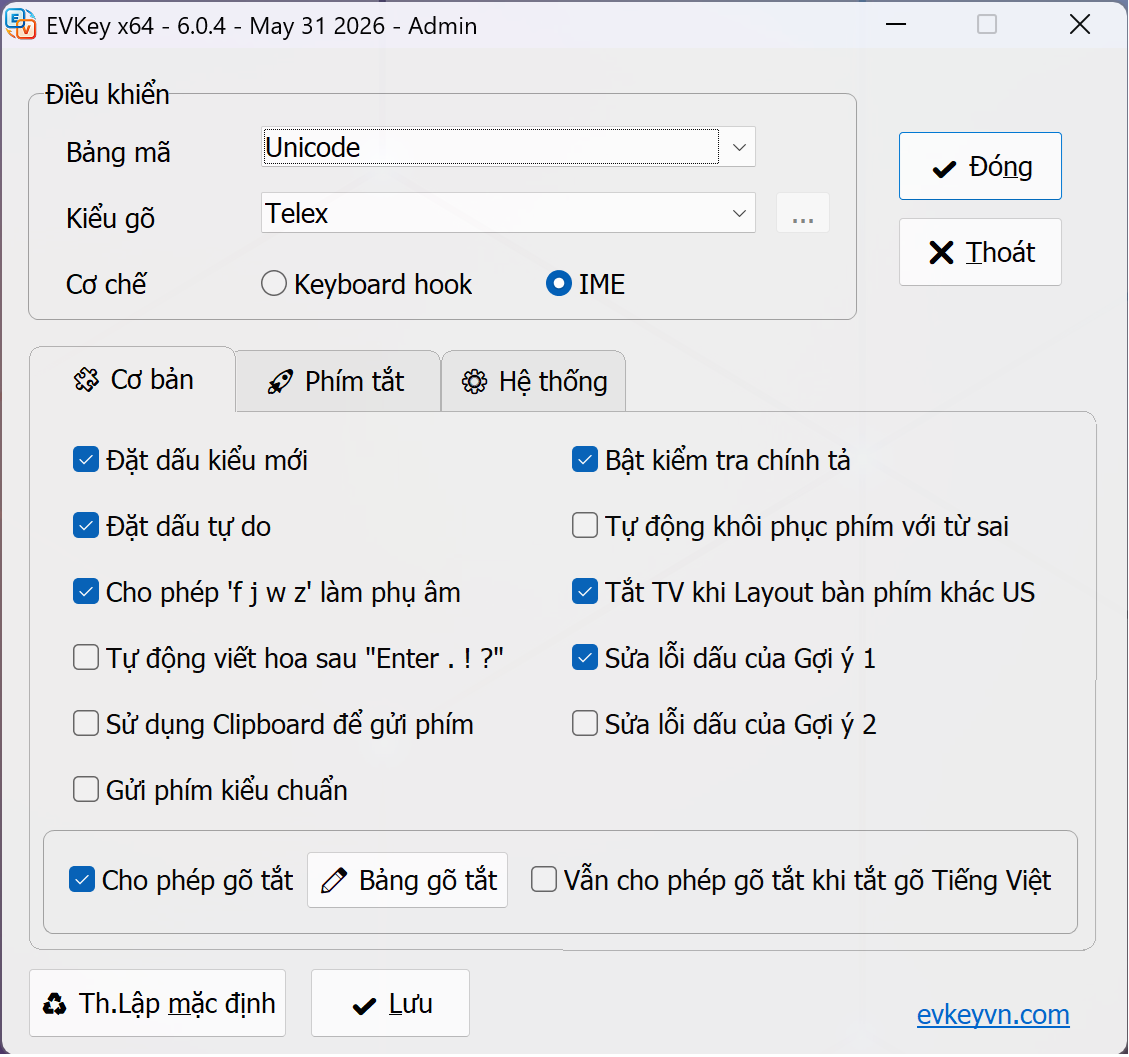
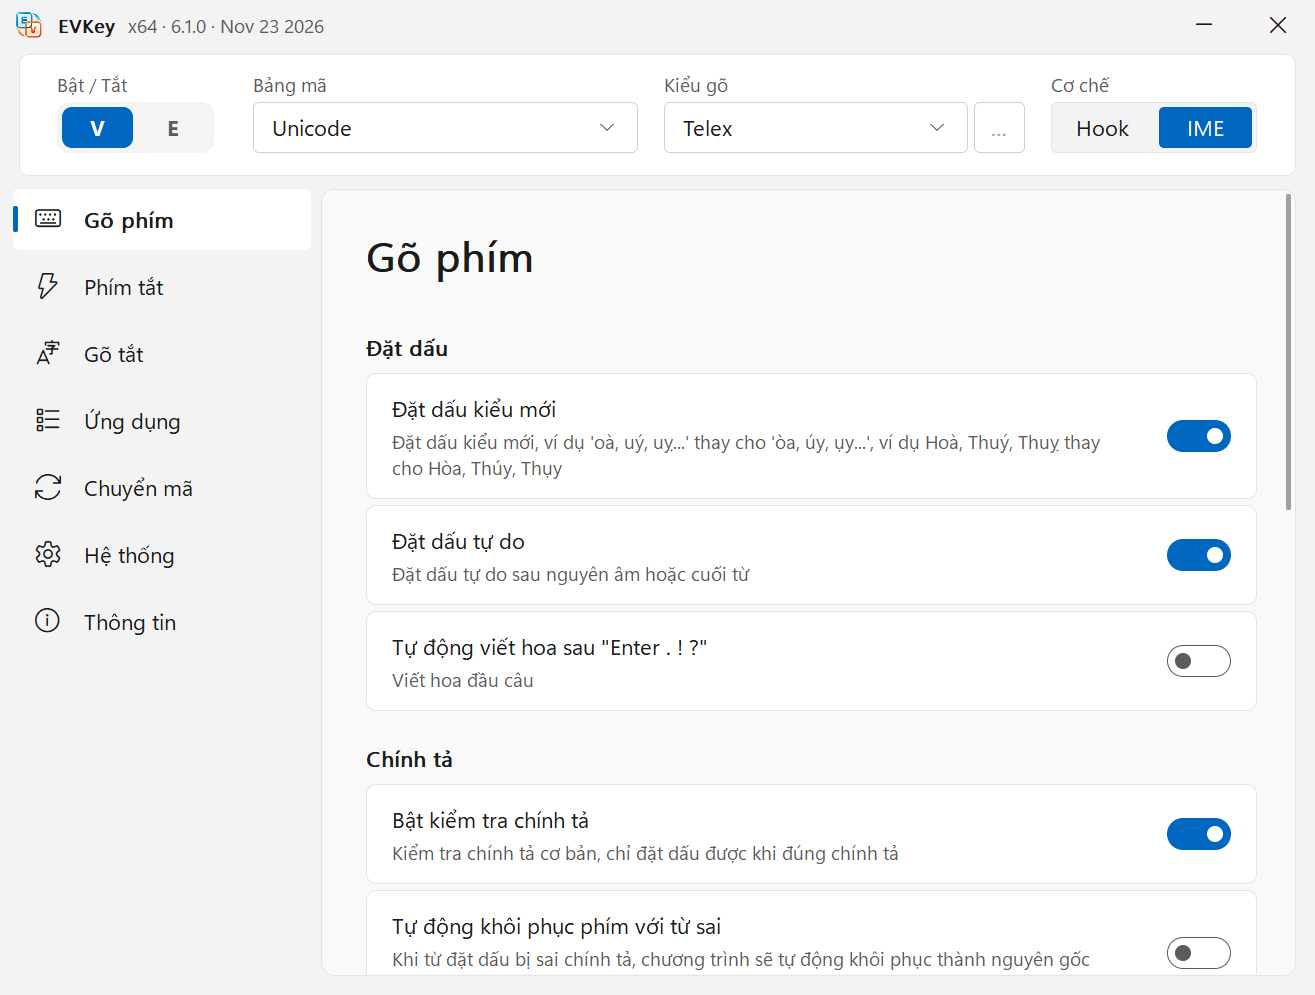
Windows 6.1.0: download label, Telegram instead of Facebook, screenshots of the new GUI

diff --git a/docs/_preview.html b/docs/_preview.html
@@ -32,7 +32,7 @@
     </div>
     <div class="header-icons tanimation">
       <a aria-label="Send email" href="mailto:lamquangminh10@gmail.com"><i class="icon fa fa-envelope"></i></a>
-      <a aria-label="My Facebook" target="_blank" href="https://www.facebook.com/bogotiengvietevkey"><i class="icon fa fa-facebook" aria-hidden="true"></i></a>
+      <a aria-label="Telegram" target="_blank" href="https://t.me/lamquangminh"><i class="icon fa fa-telegram" aria-hidden="true"></i></a>
     </div>
   </div>
   <a href="#noidung" class="evk-scroll-hint" aria-label="Xem thêm thông tin">&#8964;</a>
@@ -91,8 +91,8 @@
         <div class="evk-feature"><h3>Nhẹ và miễn phí</h3><p>Dung lượng nhỏ, chạy nền ổn định, hoàn toàn miễn phí cho mọi người dùng.</p></div>
       </div>
       <div class="evk-shots">
-        <img class="evk-shot" src="evkey-screenshot-1.png" alt="Giao diện EVKey - tab Cơ bản">
-        <img class="evk-shot" src="evkey-screenshot-2.png" alt="Giao diện EVKey - tùy chọn gõ tiếng Việt">
+        <img class="evk-shot" src="evkey-screenshot-1.png" alt="Giao diện EVKey - trang Gõ phím, giao diện sáng">
+        <img class="evk-shot" src="evkey-screenshot-2.png" alt="Giao diện EVKey - trang Gõ phím, giao diện tối">
       </div>
     </section>
 
@@ -134,7 +134,7 @@
   <p>
     <a href="_preview.html">Home</a> ·
     <a href="_preview-privacy.html">Privacy Policy</a> ·
-    <a href="https://www.facebook.com/bogotiengvietevkey" target="_blank" rel="noopener">Facebook</a>
+    <a href="https://t.me/lamquangminh" target="_blank" rel="noopener">Telegram</a>
   </p>
   <p>&copy; EVKey — Vietnamese Keyboard for PC. Contact: lamquangminh10@gmail.com</p>
 </footer>

diff --git a/docs/_includes/content.html b/docs/_includes/content.html
@@ -151,8 +151,8 @@
         </div>
       </div>
       <div class="evk-shots">
-        <img class="evk-shot" src="{{ '/evkey-screenshot-1.png' | relative_url }}" alt="Giao diện EVKey - tab Cơ bản">
-        <img class="evk-shot" src="{{ '/evkey-screenshot-2.png' | relative_url }}" alt="Giao diện EVKey - tùy chọn gõ tiếng Việt">
+        <img class="evk-shot" src="{{ '/evkey-screenshot-1.png' | relative_url }}" alt="Giao diện EVKey - trang Gõ phím, giao diện sáng">
+        <img class="evk-shot" src="{{ '/evkey-screenshot-2.png' | relative_url }}" alt="Giao diện EVKey - trang Gõ phím, giao diện tối">
       </div>
     </section>
 
@@ -198,7 +198,7 @@
   <p>
     <a href="{{ '/' | relative_url }}">Home</a> ·
     <a href="{{ '/privacy.html' | relative_url }}">Privacy Policy</a> ·
-    <a href="https://www.facebook.com/bogotiengvietevkey" target="_blank" rel="noopener">Facebook</a>
+    <a href="https://t.me/lamquangminh" target="_blank" rel="noopener">Telegram</a>
   </p>
   <p>&copy; EVKey — Vietnamese Keyboard for PC. Contact: lamquangminh10@gmail.com</p>
 </footer>

diff --git a/docs/_includes/header.html b/docs/_includes/header.html
@@ -71,7 +71,7 @@
       
    <div class="download">
     <a href="https://github.com/lamquangminh/EVKey/releases/download/Release/EVKey.zip" title="Tải về cho Windows" rel="nofollow">
-      <i class="fa fa-windows"></i>&nbsp;&nbsp;<span>v6.0.5</span></a>
+      <i class="fa fa-windows"></i>&nbsp;&nbsp;<span>v6.1.0</span></a>
     <a href="https://github.com/lamquangminh/EVKey/releases/download/Release/EVKeyMac.zip" title="Tải về cho macOS" rel="nofollow">
       <i class="fa fa-apple"></i>&nbsp;&nbsp;<span>v3.3.10</span></a>
   </div>
@@ -79,7 +79,7 @@
     <div class="header-icons tanimation">
 
       <a aria-label="Send email" href="mailto:lamquangminh10@gmail.com"><i class="icon fa fa-envelope"></i></a>
-      <a aria-label="My Facebook" target="_blank" href="https://www.facebook.com/bogotiengvietevkey"><i class="icon fa fa-facebook" aria-hidden="true"></i></a>
+      <a aria-label="Telegram" target="_blank" href="https://t.me/lamquangminh"><i class="icon fa fa-telegram" aria-hidden="true"></i></a>
     </div>
 
   </div>

diff --git a/docs/_preview-privacy.html b/docs/_preview-privacy.html
@@ -49,7 +49,7 @@
     </ul>
 
     <h2>4. Liên kết tới website khác</h2>
-    <p>Website EVKey có thể chứa liên kết tới các website khác (ví dụ GitHub, Facebook). Chúng tôi không chịu trách nhiệm về nội dung và chính sách bảo mật của các website đó. Bạn nên xem chính sách bảo mật riêng của từng website khi truy cập.</p>
+    <p>Website EVKey có thể chứa liên kết tới các website khác (ví dụ GitHub, Telegram). Chúng tôi không chịu trách nhiệm về nội dung và chính sách bảo mật của các website đó. Bạn nên xem chính sách bảo mật riêng của từng website khi truy cập.</p>
 
     <h2>5. Thay đổi chính sách</h2>
     <p>Chính sách bảo mật này có thể được cập nhật theo thời gian. Mọi thay đổi sẽ được đăng tải trên trang này kèm theo ngày cập nhật mới.</p>

diff --git a/docs/privacy.html b/docs/privacy.html
@@ -55,7 +55,7 @@ title: Chính sách bảo mật - EVKey
 
 <h2>4. Liên kết tới website khác</h2>
 <p>
-  Website EVKey có thể chứa liên kết tới các website khác (ví dụ GitHub, Facebook).
+  Website EVKey có thể chứa liên kết tới các website khác (ví dụ GitHub, Telegram).
   Chúng tôi không chịu trách nhiệm về nội dung và chính sách bảo mật của các website đó.
   Bạn nên xem chính sách bảo mật riêng của từng website khi truy cập.
 </p>
